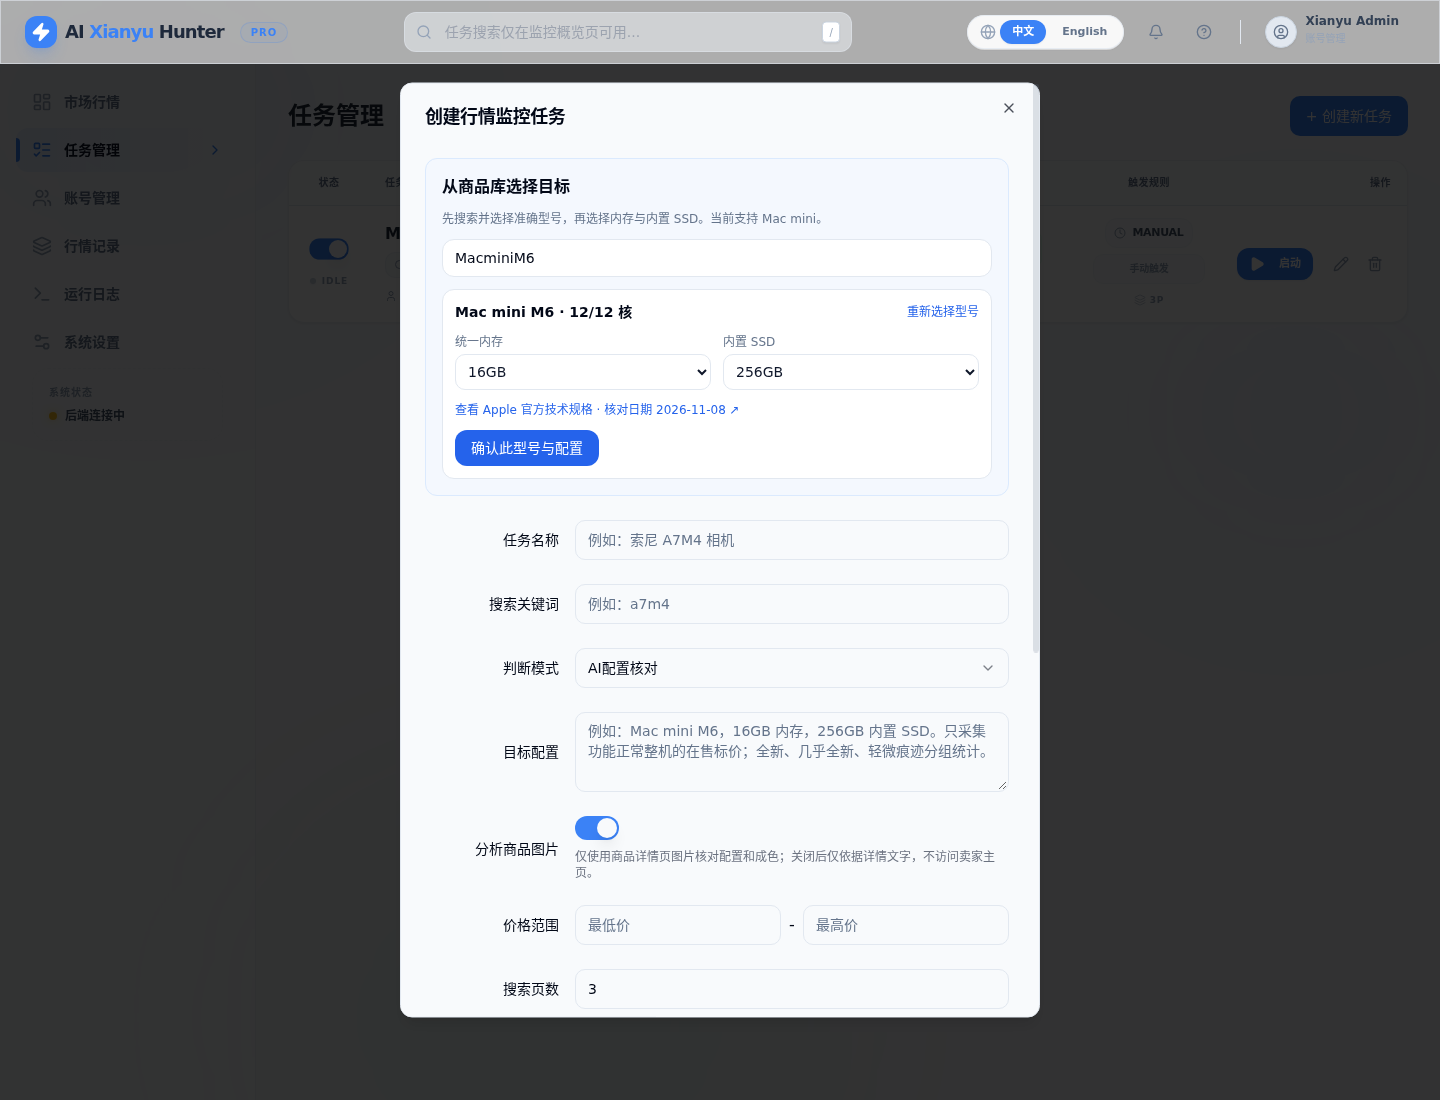
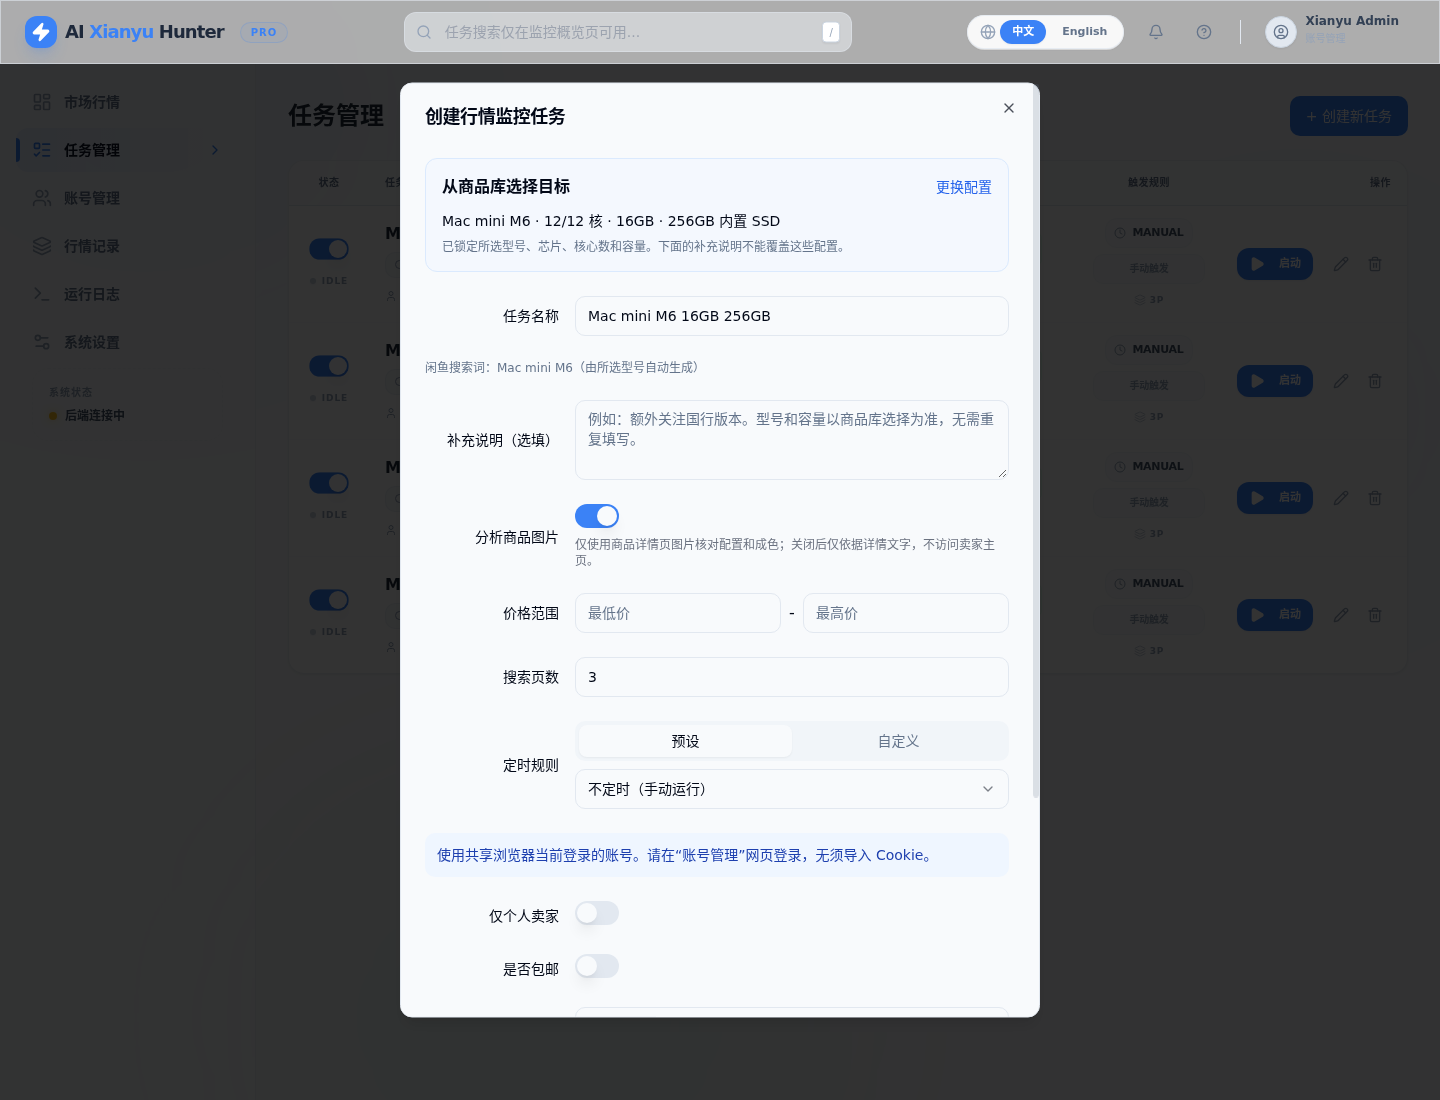
fix(catalog): derive search terms from the selected product

diff --git a/web-ui/src/components/tasks/TaskForm.vue b/web-ui/src/components/tasks/TaskForm.vue
@@ -41,10 +41,11 @@ function applyCatalogSelection(value: { selection: object; name: string; keyword
   form.value.product_selection = value.selection
   form.value.task_name = value.name
   form.value.keyword = value.keyword
+  form.value.decision_mode = 'ai'
+  form.value.keyword_rules = []
 }
 const accountStrategy = ref<'auto' | 'fixed' | 'rotate'>('auto')
 const selectedAccountStateFile = ref(AUTO_ACCOUNT_VALUE)
-const keywordRulesInput = ref('')
 const cronMode = ref<'preset' | 'custom'>('preset')
 
 // 常用 cron 预设选项
@@ -88,22 +89,6 @@ const accountStrategyOptions = computed(() => [
   { value: 'rotate', label: t('tasks.form.accountStrategy.rotate'), description: t('tasks.form.accountStrategy.rotateDescription') },
 ])
 
-function parseKeywordText(text: string): string[] {
-  const values = String(text || '')
-    .split(/[\n,]+/)
-    .map((item) => item.trim())
-    .filter((item) => item.length > 0)
-
-  const seen = new Set<string>()
-  const deduped: string[] = []
-  for (const value of values) {
-    const key = value.toLowerCase()
-    if (seen.has(key)) continue
-    seen.add(key)
-    deduped.push(value)
-  }
-  return deduped
-}
 
 watch(() => [props.mode, props.initialData, props.defaultValues, props.defaultAccount], () => {
   const defaultValues = props.defaultValues || {}
@@ -126,7 +111,6 @@ watch(() => [props.mode, props.initialData, props.defaultValues, props.defaultAc
       region: defaultValues.region || props.initialData.region || '',
       decision_mode: defaultValues.decision_mode || props.initialData.decision_mode || 'ai',
     }
-    keywordRulesInput.value = (defaultValues.keyword_rules || props.initialData.keyword_rules || []).join('\n')
     // 编辑模式下，根据 cron 值判断模式
     const cronVal = defaultValues.cron ?? props.initialData.cron ?? ''
     cronMode.value = isPresetCronValue(cronVal) ? 'preset' : 'custom'
@@ -157,10 +141,6 @@ watch(() => [props.mode, props.initialData, props.defaultValues, props.defaultAc
     }
     if (!form.value.new_publish_option) {
       form.value.new_publish_option = '__none__'
-    }
-    keywordRulesInput.value = ''
-    if (defaultValues.keyword_rules && defaultValues.keyword_rules.length > 0) {
-      keywordRulesInput.value = defaultValues.keyword_rules.join('\n')
     }
     // 创建模式下，根据默认值判断模式
     const cronVal = defaultValues.cron ?? ''
@@ -196,7 +176,7 @@ function handleAccountStateFileChange(event: Event) {
 }
 
 function handleSubmit() {
-  if (!form.value.task_name || !form.value.keyword) {
+  if (!String(form.value.task_name || '').trim()) {
     toast({
       title: t('tasks.form.validation.incomplete'),
       description: t('tasks.form.validation.nameAndKeywordRequired'),
@@ -207,26 +187,6 @@ function handleSubmit() {
 
   if (!form.value.product_selection || catalogPending.value) {
     toast({ title: '请选择准确商品', description: '先从商品库确认型号、内存和内置SSD，再提交任务。', variant: 'destructive' })
-    return
-  }
-
-  const decisionMode = form.value.decision_mode || 'ai'
-  if (form.value.monitor_mode === 'buying' && decisionMode === 'ai' && !String(form.value.description || '').trim()) {
-    toast({
-      title: t('tasks.form.validation.incomplete'),
-      description: t('tasks.form.validation.aiDescriptionRequired'),
-      variant: 'destructive',
-    })
-    return
-  }
-
-  const keywordRules = parseKeywordText(keywordRulesInput.value)
-  if (decisionMode === 'keyword' && keywordRules.length === 0) {
-    toast({
-      title: t('tasks.form.validation.keywordRuleIncomplete'),
-      description: t('tasks.form.validation.keywordRuleRequired'),
-      variant: 'destructive',
-    })
     return
   }
 
@@ -263,13 +223,10 @@ function handleSubmit() {
   }
 
   submitData.monitor_mode = 'market'
-  submitData.decision_mode = decisionMode
+  submitData.decision_mode = 'ai'
   submitData.account_strategy = currentAccountStrategy
   submitData.analyze_images = submitData.analyze_images !== false
-  submitData.keyword_rules = decisionMode === 'keyword' ? keywordRules : []
-  if (decisionMode === 'keyword' && !submitData.description) {
-    submitData.description = ''
-  }
+  submitData.keyword_rules = []
 
   emit('submit', submitData)
 }
@@ -283,24 +240,7 @@ function handleSubmit() {
         <Label for="task-name" class="sm:text-right">{{ t('tasks.form.taskName') }}</Label>
         <Input id="task-name" v-model="form.task_name" class="sm:col-span-3" :placeholder="t('tasks.form.taskNamePlaceholder')" required />
       </div>
-      <div class="grid gap-2 sm:grid-cols-4 sm:items-center sm:gap-4">
-        <Label for="keyword" class="sm:text-right">{{ t('tasks.form.keyword') }}</Label>
-        <Input id="keyword" v-model="form.keyword" class="sm:col-span-3" :placeholder="t('tasks.form.keywordPlaceholder')" required />
-      </div>
-      <div class="grid gap-2 sm:grid-cols-4 sm:items-center sm:gap-4">
-        <Label class="sm:text-right">{{ t('tasks.form.decisionMode') }}</Label>
-        <div class="sm:col-span-3">
-          <Select v-model="form.decision_mode">
-            <SelectTrigger>
-              <SelectValue :placeholder="t('tasks.form.decisionModePlaceholder')" />
-            </SelectTrigger>
-            <SelectContent>
-              <SelectItem value="ai">{{ t('tasks.form.aiMode') }}</SelectItem>
-              <SelectItem value="keyword">{{ t('tasks.form.keywordMode') }}</SelectItem>
-            </SelectContent>
-          </Select>
-        </div>
-      </div>
+      <p v-if="form.product_selection" class="text-xs text-slate-500">闲鱼搜索词：{{ form.keyword }}（由所选型号自动生成）</p>
       <div class="grid gap-2 sm:grid-cols-4 sm:items-center sm:gap-4">
         <Label for="description" class="sm:text-right">{{ t('tasks.form.description') }}</Label>
         <div class="space-y-1 sm:col-span-3">
@@ -309,9 +249,6 @@ function handleSubmit() {
             v-model="form.description"
             :placeholder="t('tasks.form.descriptionPlaceholder')"
           />
-          <p v-if="form.decision_mode === 'keyword'" class="text-xs text-gray-500">
-            {{ t('tasks.form.keywordDescriptionHint') }}
-          </p>
         </div>
       </div>
       <div class="grid gap-2 sm:grid-cols-4 sm:items-center sm:gap-4">
@@ -321,20 +258,6 @@ function handleSubmit() {
           <p class="text-xs text-gray-500">
             {{ t('tasks.form.analyzeImagesHint') }}
           </p>
-        </div>
-      </div>
-
-      <div v-if="form.decision_mode === 'keyword'" class="grid gap-2 sm:grid-cols-4 sm:gap-4">
-        <Label class="pt-1 sm:pt-2 sm:text-right">{{ t('tasks.form.keywordRules') }}</Label>
-        <div class="space-y-2 sm:col-span-3">
-          <p class="text-xs text-gray-500">
-            {{ t('tasks.form.keywordRulesHint') }}
-          </p>
-          <Textarea
-            v-model="keywordRulesInput"
-            class="min-h-[120px]"
-            :placeholder="t('tasks.form.keywordRulesPlaceholder')"
-          />
         </div>
       </div>
 

diff --git a/web-ui/src/components/tasks/ProductCatalogPicker.vue b/web-ui/src/components/tasks/ProductCatalogPicker.vue
@@ -34,7 +34,7 @@ function confirm() {
   if (!candidate.value || !memory.value || !storage.value) return
   const selection = { catalog_id: candidate.value.id, memory_gb: Number(memory.value), storage_gb: Number(storage.value) }
   emit('update:modelValue', selection)
-  emit('selected', { selection, name: `${candidate.value.name} ${selection.memory_gb}GB ${size(selection.storage_gb)}`, keyword: candidate.value.name })
+  emit('selected', { selection, name: `${candidate.value.name}${candidate.value.chip.includes('Pro') ? ` (${candidate.value.cpu_cores}/${candidate.value.gpu_cores}核)` : ''} ${selection.memory_gb}GB ${size(selection.storage_gb)}`, keyword: candidate.value.name })
   editing.value = false
 }
 watch(editing, value => emit('pending', value), { immediate: true })
@@ -69,7 +69,7 @@ onUnmounted(() => { clearTimeout(timer); requestId++ })
       </div>
     </template>
     <div v-else-if="modelValue" class="space-y-2">
-      <p class="text-sm font-medium">{{ selected?.name || modelValue.catalog_id }} · {{ modelValue.memory_gb }}GB · {{ size(modelValue.storage_gb) }} 内置 SSD</p>
+      <p class="text-sm font-medium">{{ selected?.name || modelValue.catalog_id }}<span v-if="selected"> · {{ selected.cpu_cores }}/{{ selected.gpu_cores }} 核</span> · {{ modelValue.memory_gb }}GB · {{ size(modelValue.storage_gb) }} 内置 SSD</p>
       <p class="text-xs text-slate-500">已锁定所选型号、芯片、核心数和容量。下面的补充说明不能覆盖这些配置。</p>
     </div>
   </section>

diff --git a/web-ui/src/i18n/messages/zh-CN-extra.ts b/web-ui/src/i18n/messages/zh-CN-extra.ts
@@ -70,15 +70,15 @@ const zhCNExtra = {
     },
     form: {
       taskName: '任务名称',
-      taskNamePlaceholder: '例如：索尼 A7M4 相机',
+      taskNamePlaceholder: '确认商品配置后自动填写，可修改显示名称',
       keyword: '搜索关键词',
       keywordPlaceholder: '例如：a7m4',
       decisionMode: '判断模式',
       decisionModePlaceholder: '请选择判断模式',
       aiMode: 'AI配置核对',
       keywordMode: '关键词候选 + AI配置核对',
-      description: '目标配置',
-      descriptionPlaceholder: '例如：Mac mini M6，16GB 内存，256GB 内置 SSD。只采集功能正常整机的在售标价；全新、几乎全新、轻微痕迹分组统计。',
+      description: '补充说明（选填）',
+      descriptionPlaceholder: '例如：额外关注国行版本。型号和容量以商品库选择为准，无需重复填写。',
       keywordDescriptionHint: '可留空，默认使用任务名称和搜索词确定目标。',
       analyzeImages: '分析商品图片',
       analyzeImagesHint: '仅使用商品详情页图片核对配置和成色；关闭后仅依据详情文字，不访问卖家主页。',

diff --git a/tests/unit/test_market_reports.py b/tests/unit/test_market_reports.py
@@ -93,6 +93,7 @@ def test_chip_family_and_storage_are_independent_hard_constraints():
     target = MarketTarget.from_task(task())
     assert (target.product_family, target.chip, target.memory_gb, target.storage_gb) == ('mac mini','m6',16,256)
     assert target.reject_title('Mac mini M4 16+256 自用')
+    assert target.reject_title('MacminiM4 16+256 自用')
     assert target.reject_title('Mac mini 2024款，M3芯片，16G内存+256G固态')
     assert target.reject_title('Mac mini M6 Pro 16+256')
     assert not target.reject_title('Mac mini M6 16+256')
@@ -103,6 +104,8 @@ def test_chip_family_and_storage_are_independent_hard_constraints():
     base = record()['market_analysis']
     item = record()['商品信息']
     assert target.validate_identity(base, item)['match_status'] == 'match'
+    compact = base | {'identity_evidence':'MacminiM6 16+256'}
+    assert target.validate_identity(compact, item | {'商品标题':'MacminiM6 16+256'})['match_status'] == 'match'
     for change in ({'chip':'M4'}, {'chip':'M3'}, {'chip':'M2'}, {'chip':'M6 Pro'},
                    {'product_family':'macbook air'}, {'storage_gb':512}, {'memory_gb':24}):
         assert target.validate_identity(base | change, item)['match_status'] == 'no_match'
@@ -162,4 +165,20 @@ def test_only_three_good_condition_grades_enter_market(tmp_path, monkeypatch):
         assert len(report['excluded']) == 5
         message = format_report(report)
         assert '故障：' not in message and '几乎全新：1 件' in message
+    asyncio.run(scenario())
+
+
+def test_market_analyzer_does_not_treat_task_labels_as_observed_evidence():
+    from src.services.market_analysis_service import MarketAnalyzer
+    from types import SimpleNamespace
+    async def scenario():
+        analyze = AsyncMock(return_value=record()['market_analysis'])
+        analyzer = MarketAnalyzer()
+        analyzer.client = SimpleNamespace(analyze=analyze)
+        observed = record() | {'任务名称':'别名M4', '搜索关键字':'其他芯片'}
+        result = await analyzer.analyze(observed, [], '明确的结构化目标')
+        assert result['match_status'] == 'match'
+        sent = analyze.call_args.args[0]
+        assert set(sent) == {'商品信息','卖家信息','analysis_purpose'}
+        assert '任务名称' not in sent and sent['商品信息'] == observed['商品信息']
     asyncio.run(scenario())

diff --git a/tests/integration/test_product_catalog.py b/tests/integration/test_product_catalog.py
@@ -42,13 +42,15 @@ def test_selected_product_overrides_name_description_and_prompt_guesses(tmp_path
         task = await service.create_task(TaskCreate(task_name='随便起的名称 M4 32+512', keyword='Mac mini M4',
             description='换机时提到M2 8+512', product_selection=SELECTION))
         assert task.product_selection.model_dump() == SELECTION
+        assert task.keyword == 'Mac mini M6' and task.decision_mode == 'ai'
         target = MarketTarget.from_task(task.model_dump())
         assert (target.chip,target.memory_gb,target.storage_gb,target.cpu_cores,target.gpu_cores) == ('m6',16,256,12,12)
         assert target.reject_title('Mac mini M4 16+256')
         prompt = build_market_prompt(task.model_dump())
         assert '目标：Mac mini M6 / 12核CPU 12核GPU / 16GB / 256GB内置SSD' in prompt
         # PATCH keeps the nested typed selection; saving/reloading doesn't lose it.
-        updated = await service.update_task(task.id,TaskUpdate(description='新的补充说明'))
+        updated = await service.update_task(task.id,TaskUpdate(description='新的补充说明',keyword='Mac mini M4'))
+        assert updated.keyword == 'Mac mini M6'
         assert updated.product_selection == task.product_selection
         choice = SELECTION | {'memory_gb':24,'storage_gb':512}
         updated = await service.update_task(task.id,TaskUpdate(product_selection=choice))

diff --git a/src/services/task_service.py b/src/services/task_service.py
@@ -5,6 +5,7 @@
 from typing import List, Optional
 from src.domain.models.task import Task, TaskCreate, TaskUpdate
 from src.domain.repositories.task_repository import TaskRepository
+from src.services.product_catalog_service import catalog_search_fields
 
 
 class TaskService:
@@ -24,6 +25,7 @@ class TaskService:
     async def create_task(self, task_create: TaskCreate) -> Task:
         """创建新任务"""
         task = Task(**task_create.model_dump(), is_running=False)
+        task = task.model_copy(update=catalog_search_fields(task.model_dump()))
         return await self.repository.save(task)
 
     async def update_task(self, task_id: int, task_update: TaskUpdate) -> Task:
@@ -33,6 +35,7 @@ class TaskService:
             raise ValueError(f"任务 {task_id} 不存在")
 
         updated_task = task.apply_update(task_update)
+        updated_task = updated_task.model_copy(update=catalog_search_fields(updated_task.model_dump()))
         return await self.repository.save(updated_task)
 
     async def delete_task(self, task_id: int) -> bool:

diff --git a/src/services/market_analysis_service.py b/src/services/market_analysis_service.py
@@ -56,7 +56,9 @@ class MarketAnalyzer:
         if self.client is None:
             self.client = AIClient()
         # The generic client must not append the legacy buying instructions.
-        result = await self.client.analyze({**record, 'analysis_purpose': 'market'}, images, prompt)
+        result = await self.client.analyze({'商品信息': record.get('商品信息', {}),
+                                            '卖家信息': record.get('卖家信息', {}),
+                                            'analysis_purpose': 'market'}, images, prompt)
         if result is None:
             raise ValueError('行情分类不可用，样本不计入统计')
         validated = MarketClassification.model_validate(result).model_dump()

diff --git a/src/services/product_catalog_service.py b/src/services/product_catalog_service.py
@@ -16,3 +16,13 @@ def search_products(query=''):
         if all(token in searchable for token in tokens):
             result.append(deepcopy(model))
     return {'revision': REVISION, 'items': result}
+
+
+def catalog_search_fields(payload):
+    """A selected model determines the platform query; free text cannot override it."""
+    if payload.get('monitor_mode', 'market') != 'market' or not payload.get('product_selection'):
+        return {}
+    from src.domain.models.product_selection import ProductSelection, find_product
+    selected = ProductSelection.model_validate(payload['product_selection'])
+    product = find_product(selected.catalog_id)
+    return {'keyword': product['name'], 'decision_mode': 'ai', 'keyword_rules': []}

diff --git a/src/scraper.py b/src/scraper.py
@@ -523,6 +523,8 @@ async def scrape_xianyu(task_config: dict, debug_limit: int = 0):
     from src.services.market_report_service import MarketRun
     from src.services.market_analysis_service import MarketAnalyzer
     task_config = dict(task_config)
+    from src.services.product_catalog_service import catalog_search_fields
+    task_config.update(catalog_search_fields(task_config))
     market = MarketRun(task_config) if task_config.get('monitor_mode', 'market') == 'market' else None
     analyzer = MarketAnalyzer() if market else None
     if market:

diff --git a/src/domain/models/market_target.py b/src/domain/models/market_target.py
@@ -5,7 +5,9 @@ from dataclasses import dataclass
 
 
 def normalize(value):
-    return ' '.join(unicodedata.normalize('NFKC', str(value or '')).casefold().split())
+    text = unicodedata.normalize('NFKC', str(value or '')).casefold()
+    text = re.sub(r'(?<![a-z])mac\s*mini(?=m\d)', 'mac mini ', text)
+    return ' '.join(text.split())
 
 
 CHIP = re.compile(r'(?<![a-z0-9])m\s*([1-9]\d?)\s*(pro|max|ultra)?(?![a-z0-9])', re.I)

diff --git a/docs/market-monitoring.md b/docs/market-monitoring.md
@@ -49,7 +49,7 @@ docker compose up -d --no-deps app
 
 ## 从商品库创建任务
 
-新建 Mac mini 任务必须先“搜索商品库 → 选择具体芯片和核心版本 → 选择内存和内置 SSD → 确认配置 → 创建任务”。输入框仍可编辑显示名称、搜索词和补充说明，但商品库选择是实际匹配的最高优先级，不会从说明里推断成其他型号。新建接口也校验型号 ID 和该机型支持的容量，拒绝不存在的型号和配置；不会在没找到型号时自动改选。
+新建 Mac mini 任务必须先“搜索商品库 → 选择具体芯片和核心版本 → 选择内存和内置 SSD → 确认配置 → 创建任务”。输入框可编辑显示名称和可选补充说明；闲鱼搜索词由所选型号自动生成，不再手填，后端也会统一生成，商品库选择是实际匹配的最高优先级，不会从说明里推断成其他型号。新建接口也校验型号 ID 和该机型支持的容量，拒绝不存在的型号和配置；不会在没找到型号时自动改选。
 
 第一版为带官方来源的本地 Mac mini 元数据库，核对日期 2026-11-08；不是 TMDb，也不假称接入一个通用硬件 API。元数据随应用版本发布，创建任务和运行采样均不需要在线抓取规格。当前来源为苹果当前 Mac mini 技术规格页，以及官方 2024、2023、2020 技术规格归档，涵盖 M6、M5 Pro、M4/M4 Pro、M2/M2 Pro、M1。具有不同 CPU/GPU 核心组合的 Pro 机型单独列出，证据不足不能混为同一配置。
 
